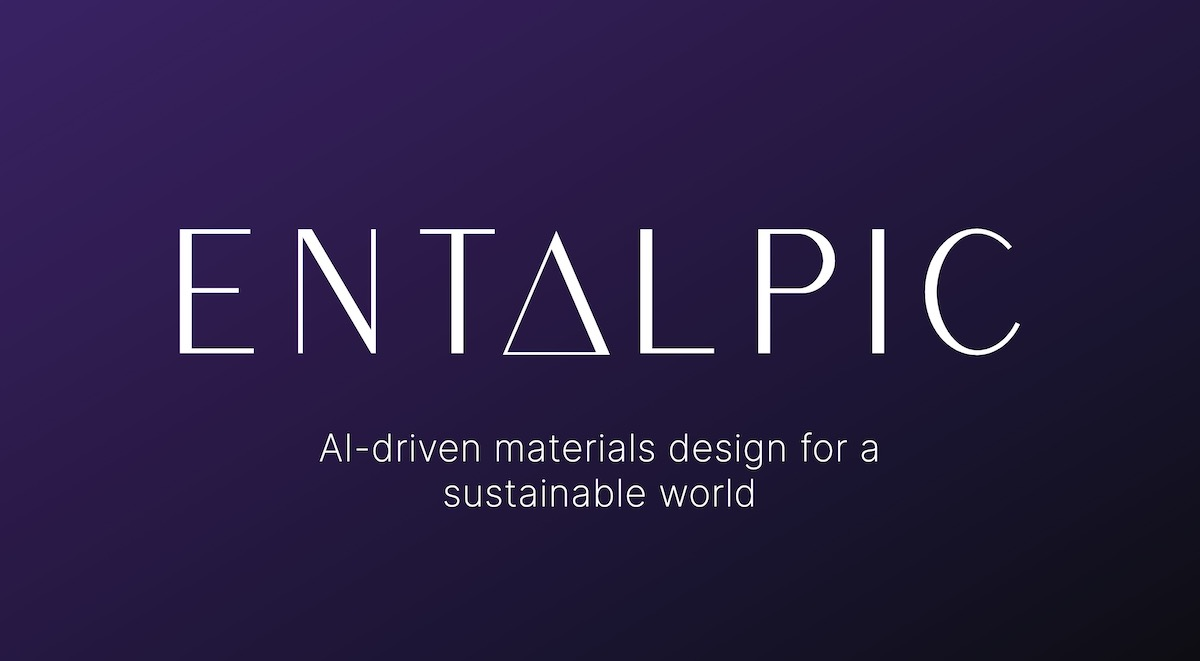
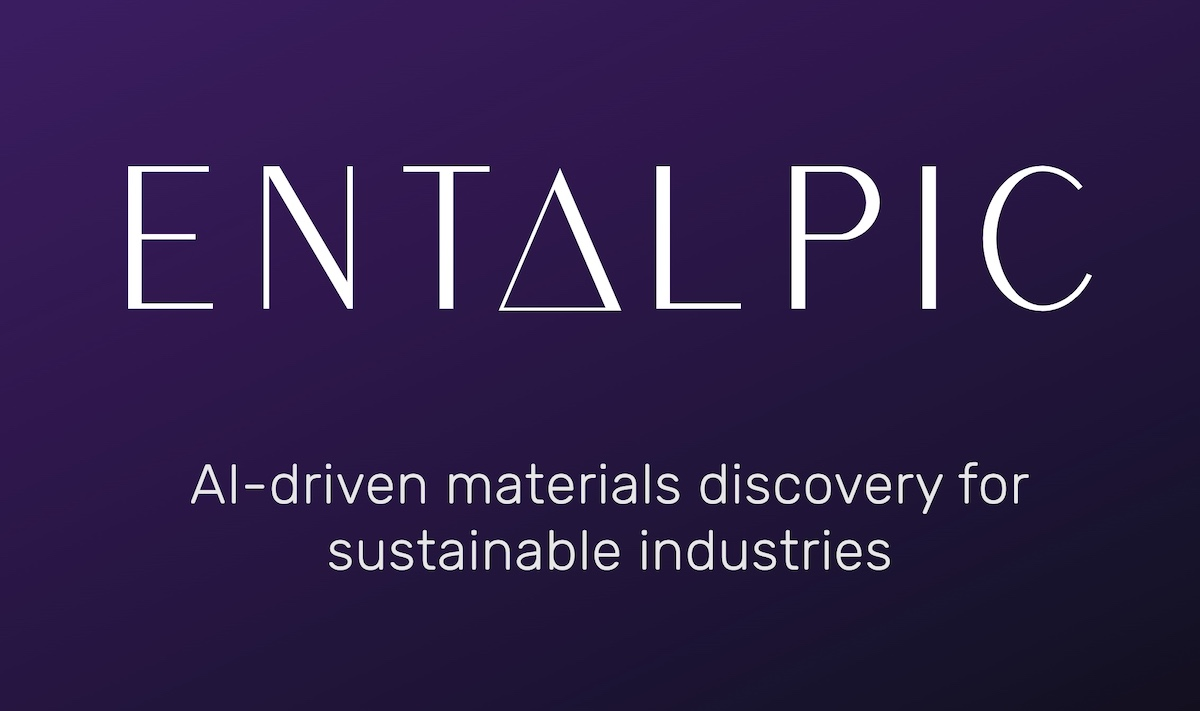
update og card & tagline

diff --git a/dist/index.html b/dist/index.html
@@ -3,20 +3,20 @@
     <head>
         <meta charset="utf-8" />
         <meta name="viewport" content="width=device-width, initial-scale=1, shrink-to-fit=no" />
-        <meta name="description" content="Entalpic's mission is to discover new materials and chemical processes that lead to more sustainable practices in sectors where the need for change is most urgent." />
+        <meta name="description" content="Entalpic is an AI-driven materials discovery company, fostering greener and smarter industrial processes." />
         <meta name="author" content="Entalpic" />
         <meta property="og:url" content="https://entalpic.ai" />
         <meta property="og:type" content="website" />
-        <meta property="og:title" content="Entalpic - AI-driven materials design for a sustainable world." />
-        <meta property="og:description" content="Entalpic's mission is to discover new materials and chemical processes that lead to more sustainable practices in sectors where the need for change is most urgent." />
+        <meta property="og:title" content="Entalpic - AI-driven materials discovery for sustainable industries." />
+        <meta property="og:description" content="Entalpic is an AI-driven materials discovery company, fostering greener and smarter industrial processes." />
         <meta property="og:image" itemprop="image" content="https://github.com/Entalpic/entalpic.github.io/blob/main/src/assets/img/og-card.jpeg?raw=true" />
         <meta name="twitter:card" content="summary_large_image" />
         <meta name="twitter:site" content="@entalpic_ai" />
         <meta name="twitter:creator" content="" />
-        <meta name="twitter:title" content="Entalpic - AI-driven materials design for a sustainable world." />
-        <meta name="twitter:description" content="Entalpic's mission is to discover new materials and chemical processes that lead to more sustainable practices in sectors where the need for change is most urgent." />
+        <meta name="twitter:title" content="Entalpic - AI-driven materials discovery for sustainable industries." />
+        <meta name="twitter:description" content="Entalpic is an AI-driven materials discovery company, fostering greener and smarter industrial processes." />
         <meta name="twitter:image" content="https://github.com/Entalpic/entalpic.github.io/blob/main/src/assets/img/og-card.jpeg?raw=true" />
-        <title>Entalpic - AI-driven materials design for a sustainable world.</title>
+        <title>Entalpic - AI-driven materials discovery for sustainable industries.</title>
         <link rel="icon" href="assets/Entalpic.svg" />
         <link rel="mask-icon" href="assets/Entalpic.svg" color="#000000" />
         <!-- Font Awesome icons (free version)-->
@@ -55,7 +55,7 @@
             <div class="masthead container d-flex align-items-stretch justify-content-center">
                 <div class="row d-flex justify-content-center align-items-center" id="home-row">
                     <div class="col-12 text-center mb-xs-5 mb-lg-0 mb-xs-5 mb-lg-0 py-5"><img id="logo" src="assets/img/Logo - White-cropped.svg" /></div>
-                    <div class="col-12 text-center mb-xs-5 mb-lg-0"><h2 class="mx-auto mt-4 mb-4" id="sub-title">AI-driven materials design for a sustainable world</h2></div>
+                    <div class="col-12 text-center mb-xs-5 mb-lg-0"><h2 class="mx-auto mt-4 mb-4" id="sub-title">AI-driven materials discovery for sustainable industries</h2></div>
                     <div class="col-12 text-center mb-xs-5 mb-lg-0"><p class="mission-text">The chemical industry must innovate with more sustainable materials and chemical processes. We have developed a generative AI platform that helps discover new catalysts that optimize for the right chemical reactions, all while factoring in physicochemical and manufacturing constraints.</p></div>
                     <div class="col-12 text-center mb-xs-5 mb-lg-0"><p class="mission-text">We welcome collaborations, partnerships, and new teammates. If you are interested in working together, please get in touch. We are just getting started!</p></div>
                     <div class="col-12 mt-5 mb-xs-5 mb-lg-0">
